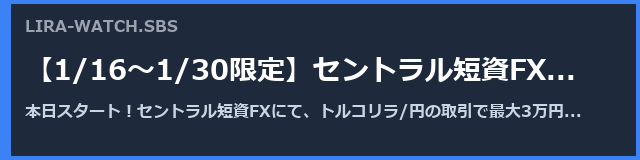
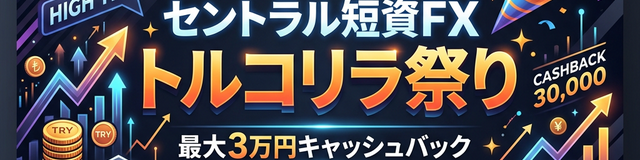
Update thumbnail for Central Tanshi to native AI generated image

diff --git a/scripts/crop_and_place_thumbnail.py b/scripts/crop_and_place_thumbnail.py
@@ -1,0 +1,163 @@
+import os
+import sys
+import re
+from PIL import Image
+
+BASE_DIR = os.path.dirname(os.path.dirname(os.path.abspath(__file__)))
+ARTICLES_PATH = os.path.join(BASE_DIR, "data", "articles.ts")
+IMAGES_DIR = os.path.join(BASE_DIR, "public", "images")
+
+TARGET_WIDTH = 640
+TARGET_HEIGHT = 160
+FONT_PATH = "C:\\Windows\\Fonts\\meiryob.ttc"  # Using Meiryo Bold for Japanese
+
+def crop_and_resize(input_path, output_path, title="", subtitle=""):
+    img = Image.open(input_path).convert("RGBA")
+    
+    # Calculate target aspect ratio
+    target_aspect = TARGET_WIDTH / TARGET_HEIGHT
+    img_aspect = img.width / img.height
+    
+    # Resize and crop to fill 640x160
+    if img_aspect > target_aspect:
+        # Image is wider than needed, crop sides
+        new_height = TARGET_HEIGHT
+        new_width = int(new_height * img_aspect)
+        img = img.resize((new_width, new_height), Image.Resampling.LANCZOS)
+        left = (img.width - TARGET_WIDTH) // 2
+        top = 0
+        right = left + TARGET_WIDTH
+        bottom = TARGET_HEIGHT
+    else:
+        # Image is taller than needed, crop top/bottom
+        new_width = TARGET_WIDTH
+        new_height = int(new_width / img_aspect)
+        img = img.resize((new_width, new_height), Image.Resampling.LANCZOS)
+        left = 0
+        top = (img.height - TARGET_HEIGHT) // 2
+        right = TARGET_WIDTH
+        bottom = top + TARGET_HEIGHT
+        
+    img = img.crop((left, top, right, bottom))
+    
+    # Save image (converting to RGB to drop alpha for JPEG/PNG uniformity if needed)
+    img = img.convert("RGB")
+    img.save(output_path, quality=90)
+    print(f"Successfully cropped and saved to {output_path}")
+
+def get_article_details(article_id):
+    with open(ARTICLES_PATH, "r", encoding="utf-8") as f:
+        content = f.read()
+
+    pattern = re.compile(
+        r"\{\s*"
+        r"id:\s*'([^']+)',\s*"
+        r"title:\s*'([^']+)',\s*"
+        r"date:\s*'([^']+)',\s*"
+        r"(?:thumbnail:\s*'[^']+',\s*)?"
+        r"content:\s*`(.*?)`,\s*"
+        r"\}", 
+        re.DOTALL
+    )
+    
+    for match in pattern.finditer(content):
+        if match.group(1) == article_id:
+            title = match.group(2)
+            article_content = match.group(4)
+            
+            subtitle = ""
+            intro_match = re.search(r'<p class="intro">(.*?)</p>', article_content, re.DOTALL)
+            if intro_match:
+                raw_text = re.sub(r'<[^>]+>', '', intro_match.group(1)).strip()
+                subtitle = raw_text.replace('\n', '')[:40]
+                
+            return title, subtitle
+            
+    return "", ""
+
+def inject_to_articles(article_id, img_rel_path):
+    with open(ARTICLES_PATH, "r", encoding="utf-8") as f:
+        content = f.read()
+
+    pattern = re.compile(
+        r"\{\s*"
+        r"id:\s*'([^']+)',\s*"
+        r"title:\s*'([^']+)',\s*"
+        r"date:\s*'([^']+)',\s*"
+        r"(?:thumbnail:\s*'[^']+',\s*)?"
+        r"content:\s*`(.*?)`,\s*"
+        r"\}", 
+        re.DOTALL
+    )
+
+    def replacer(match):
+        current_id = match.group(1)
+        if current_id != article_id:
+            return match.group(0)
+            
+        article_full = match.group(0)
+        article_title = match.group(2)
+        
+        # Check if thumbnail already exists in the block
+        has_thumbnail_prop = "thumbnail:" in article_full
+        
+        # if missing property, inject it
+        if not has_thumbnail_prop:
+            article_full = re.sub(
+                r"(date:\s*'[^']+',)",
+                rf"\1\n    thumbnail: '{img_rel_path}',",
+                article_full,
+                count=1
+            )
+            
+        # Optional: update content string to prepend <img> tag if it's not already there
+        # but since we are replacing old thumbnails or injecting anew:
+        img_html = f'<div style="text-align: center; margin: 24px 0;">\n        <img src="{img_rel_path}" alt="{article_title}" style="max-width: 100%; height: auto; border-radius: 8px; box-shadow: 0 4px 6px rgba(0,0,0,0.1);" />\n      </div>'
+        
+        # We want to replace the old generated img if it exists
+        replaced_full, count = re.subn(
+            r'<div style="text-align: center; margin: 24px 0;">\s*<img src="/images/[A-Za-z0-9_-]+\.png" alt="[^"]+" style="[^"]+" />\s*</div>',
+            img_html,
+            article_full,
+            count=1
+        )
+        article_full = replaced_full
+        
+        # If sub failed (no previous image), inject after <p class="intro">
+        if count == 0 and img_html not in article_full:
+            if '</p>' in article_full:
+                parts = article_full.split('</p>', 1)
+                article_full = parts[0] + '</p>\n\n      ' + img_html + parts[1]
+            else:
+                article_full = article_full.replace("content: `", f"content: `\n      {img_html}\n", 1)
+                    
+        return article_full
+
+    new_content = pattern.sub(replacer, content)
+
+    if new_content != content:
+        with open(ARTICLES_PATH, "w", encoding="utf-8") as f:
+            f.write(new_content)
+        print(f"Injected {img_rel_path} into articles.ts successfully.")
+    else:
+        print("No changes needed or article not found in articles.ts.")
+
+if __name__ == "__main__":
+    if len(sys.argv) < 3:
+        print("Usage: python crop_and_place_thumbnail.py <input_image_path> <article_id>")
+        sys.exit(1)
+        
+    input_image = sys.argv[1]
+    article_id = sys.argv[2]
+    
+    if not os.path.exists(input_image):
+        print(f"Error: Could not find input image at {input_image}")
+        sys.exit(1)
+        
+    output_filename = f"{article_id}_60.png"
+    output_path = os.path.join(IMAGES_DIR, output_filename)
+    rel_path = f"/images/{output_filename}"
+    
+    title, subtitle = get_article_details(article_id)
+    crop_and_resize(input_image, output_path, title, subtitle)
+    inject_to_articles(article_id, rel_path)
